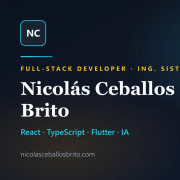
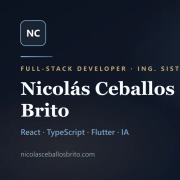
Refresh portfolio to Ink and Steel visual system.
Shift cyan/amber neon accents to muted steel and bronze for a more professional look, update OG assets, and keep CTA/hero styling on theme tokens.

diff --git a/src/styles/tokens.css b/src/styles/tokens.css
@@ -11,15 +11,17 @@
 
 @variant dark (&:where(.dark, .dark *));
 
+/* Ink & Steel — professional portfolio palette.
+   Token names kept for compatibility; values remapped to muted steel + bronze. */
 @theme {
   --color-navy-deep: #0F172A;
   --color-navy-mid: #0B1220;
-  --color-cyan: #06B6D4;
-  --color-cyan-bright: #22D3EE;
-  --color-cyan-glow: #67E8F9;
-  --color-amber: #F59E0B;
-  --color-amber-bright: #FBBF24;
-  --color-amber-glow: #FDE68A;
+  --color-cyan: #3D5A80;
+  --color-cyan-bright: #7BA3C9;
+  --color-cyan-glow: #A8C4DE;
+  --color-amber: #A67C52;
+  --color-amber-bright: #C4A574;
+  --color-amber-glow: #E2D0B0;
   --font-sans: 'Plus Jakarta Sans', sans-serif;
   --font-display: 'Fraunces', 'Fraunces Fallback', Georgia, 'Times New Roman', serif;
   --ease-smooth: cubic-bezier(0.22, 1, 0.36, 1);
@@ -32,106 +34,106 @@
 }
 
 :root {
-  --color-bg-primary: #F8FAFD;
-  --color-bg-secondary: #EEF4FB;
+  --color-bg-primary: #F4F6F8;
+  --color-bg-secondary: #E8EDF2;
   --color-bg-card: #FFFFFF;
   --color-bg-elevated: #FFFFFF;
-  --color-text-primary: #0A0F1A;
-  --color-text-secondary: #334155;
-  --color-text-placeholder: rgba(10, 15, 26, 0.5);
-  --color-text-on-hero: #0A0F1A;
-  --color-border-light: #CBD5E1;
+  --color-text-primary: #0B1220;
+  --color-text-secondary: #3F4B5A;
+  --color-text-placeholder: rgba(11, 18, 32, 0.45);
+  --color-text-on-hero: #0B1220;
+  --color-border-light: #D5DCE5;
   --color-nav-bg: rgba(255, 255, 255, 0.94);
-  --color-accent-primary: #0E7490;
-  --color-accent-cta: #EA580C;
-  --color-accent-label: #0E7490;
-  --color-accent-highlight: #0A0F1A;
-  --color-accent-icon: #0891B2;
-  --color-accent-badge-bg: rgba(8, 145, 178, 0.14);
-  --color-accent-badge-text: #0A5260;
+  --color-accent-primary: #2F4A6B;
+  --color-accent-cta: #9A7046;
+  --color-accent-label: #2F4A6B;
+  --color-accent-highlight: #0B1220;
+  --color-accent-icon: #3D5A80;
+  --color-accent-badge-bg: rgba(61, 90, 128, 0.12);
+  --color-accent-badge-text: #243B55;
   --color-btn-secondary-bg: #0F172A;
   --color-btn-secondary-text: #FFFFFF;
   --color-navy-deep: #0F172A;
-  --shadow-card: 0 8px 32px rgb(15 23 42 / 0.1);
-  --shadow-card-hover: 0 20px 48px rgb(6 182 212 / 0.22);
-  --shadow-cta: 0 8px 28px rgb(217 119 6 / 0.45);
-  --shadow-glow-cyan: 0 0 40px rgb(34 211 238 / 0.35);
-  --shadow-glow-amber: 0 0 36px rgb(251 191 36 / 0.4);
-  --shadow-nav: 0 12px 40px rgb(15 23 42 / 0.18);
-  --hero-text: #0A0F1A;
-  --hero-text-muted: rgba(10, 15, 26, 0.88);
-  --hero-subtitle: #0E7490;
-  --hero-eyebrow: #B45309;
-  --hero-stat-surface: rgba(255, 255, 255, 0.88);
-  --hero-stat-border: rgba(14, 116, 144, 0.22);
-  --hero-nav-surface: rgba(255, 255, 255, 0.9);
-  --hero-nav-border: rgba(14, 116, 144, 0.22);
+  --shadow-card: 0 8px 28px rgb(15 23 42 / 0.08);
+  --shadow-card-hover: 0 16px 40px rgb(47 74 107 / 0.14);
+  --shadow-cta: 0 8px 24px rgb(154 112 70 / 0.28);
+  --shadow-glow-cyan: 0 0 28px rgb(61 90 128 / 0.16);
+  --shadow-glow-amber: 0 0 24px rgb(154 112 70 / 0.22);
+  --shadow-nav: 0 10px 32px rgb(15 23 42 / 0.12);
+  --hero-text: #0B1220;
+  --hero-text-muted: rgba(11, 18, 32, 0.82);
+  --hero-subtitle: #2F4A6B;
+  --hero-eyebrow: #7A5A38;
+  --hero-stat-surface: rgba(255, 255, 255, 0.9);
+  --hero-stat-border: rgba(47, 74, 107, 0.18);
+  --hero-nav-surface: rgba(255, 255, 255, 0.92);
+  --hero-nav-border: rgba(47, 74, 107, 0.16);
   --gradient-hero: linear-gradient(
     155deg,
-    #F0F7FF 0%,
-    #E2F0FA 24%,
-    #C8E8F6 50%,
-    #7DD3EC 76%,
-    #22D3EE 100%
+    #F7F8FA 0%,
+    #EEF2F6 28%,
+    #E0E7EF 55%,
+    #C9D5E3 78%,
+    #A8B9CD 100%
   );
   --gradient-hero-scrim:
-    radial-gradient(ellipse 55% 45% at 85% 15%, rgb(245 158 11 / 0.14) 0%, transparent 55%),
-    radial-gradient(ellipse 60% 50% at 10% 85%, rgb(34 211 238 / 0.18) 0%, transparent 58%),
-    radial-gradient(ellipse 90% 70% at 50% 100%, rgb(255 255 255 / 0.55) 0%, transparent 70%);
-  --gradient-hero-grid: linear-gradient(rgb(14 116 144 / 0.09) 1px, transparent 1px),
-    linear-gradient(90deg, rgb(14 116 144 / 0.09) 1px, transparent 1px);
-  --gradient-text-accent: linear-gradient(135deg, #22D3EE 0%, #FBBF24 100%);
+    radial-gradient(ellipse 50% 40% at 88% 12%, rgb(154 112 70 / 0.08) 0%, transparent 55%),
+    radial-gradient(ellipse 55% 45% at 8% 88%, rgb(47 74 107 / 0.1) 0%, transparent 58%),
+    radial-gradient(ellipse 90% 70% at 50% 100%, rgb(255 255 255 / 0.5) 0%, transparent 70%);
+  --gradient-hero-grid: linear-gradient(rgb(47 74 107 / 0.06) 1px, transparent 1px),
+    linear-gradient(90deg, rgb(47 74 107 / 0.06) 1px, transparent 1px);
+  --gradient-text-accent: linear-gradient(135deg, #2F4A6B 0%, #9A7046 100%);
   --gradient-page: var(--color-bg-primary);
 }
 
 .dark {
-  --color-bg-primary: #030712;
-  --color-bg-secondary: #0B1220;
-  --color-bg-card: #111827;
-  --color-bg-elevated: #1A2332;
-  --color-text-primary: #F8FAFC;
-  --color-text-secondary: #CBD5E1;
-  --color-text-placeholder: rgba(248, 250, 252, 0.45);
+  --color-bg-primary: #070A0F;
+  --color-bg-secondary: #0E141C;
+  --color-bg-card: #141B24;
+  --color-bg-elevated: #1A2330;
+  --color-text-primary: #F1F4F8;
+  --color-text-secondary: #A8B3C2;
+  --color-text-placeholder: rgba(241, 244, 248, 0.42);
   --color-text-on-hero: #FFFFFF;
-  --hero-text: #FFFFFF;
-  --hero-text-muted: rgba(255, 255, 255, 0.95);
-  --hero-subtitle: #67E8F9;
-  --hero-eyebrow: #FBBF24;
-  --hero-stat-surface: rgba(3, 7, 18, 0.55);
-  --hero-stat-border: rgba(255, 255, 255, 0.22);
-  --hero-nav-surface: rgba(3, 7, 18, 0.78);
-  --hero-nav-border: rgba(255, 255, 255, 0.28);
-  --color-border-light: #1E293B;
-  --color-nav-bg: rgba(3, 7, 18, 0.92);
-  --color-accent-primary: #22D3EE;
-  --color-accent-cta: #FBBF24;
-  --color-accent-label: #67E8F9;
-  --color-accent-highlight: #FBBF24;
-  --color-accent-icon: #22D3EE;
-  --color-accent-badge-bg: rgba(34, 211, 238, 0.15);
-  --color-accent-badge-text: #67E8F9;
-  --color-btn-secondary-bg: #1E293B;
-  --color-btn-secondary-text: #F8FAFC;
-  --color-navy-deep: #030712;
-  --shadow-card: 0 8px 32px rgb(0 0 0 / 0.45);
-  --shadow-card-hover: 0 20px 48px rgb(34 211 238 / 0.18);
-  --shadow-cta: 0 8px 28px rgb(251 191 36 / 0.35);
-  --shadow-glow-cyan: 0 0 48px rgb(34 211 238 / 0.25);
-  --shadow-glow-amber: 0 0 40px rgb(251 191 36 / 0.3);
-  --shadow-nav: 0 12px 40px rgb(0 0 0 / 0.55);
+  --hero-text: #F7F9FC;
+  --hero-text-muted: rgba(247, 249, 252, 0.88);
+  --hero-subtitle: #A8C4DE;
+  --hero-eyebrow: #C4A574;
+  --hero-stat-surface: rgba(7, 10, 15, 0.62);
+  --hero-stat-border: rgba(255, 255, 255, 0.14);
+  --hero-nav-surface: rgba(7, 10, 15, 0.82);
+  --hero-nav-border: rgba(255, 255, 255, 0.18);
+  --color-border-light: #243041;
+  --color-nav-bg: rgba(7, 10, 15, 0.92);
+  --color-accent-primary: #7BA3C9;
+  --color-accent-cta: #C4A574;
+  --color-accent-label: #A8C4DE;
+  --color-accent-highlight: #C4A574;
+  --color-accent-icon: #7BA3C9;
+  --color-accent-badge-bg: rgba(123, 163, 201, 0.14);
+  --color-accent-badge-text: #A8C4DE;
+  --color-btn-secondary-bg: #1A2330;
+  --color-btn-secondary-text: #F1F4F8;
+  --color-navy-deep: #070A0F;
+  --shadow-card: 0 8px 28px rgb(0 0 0 / 0.4);
+  --shadow-card-hover: 0 16px 40px rgb(123 163 201 / 0.12);
+  --shadow-cta: 0 8px 24px rgb(196 165 116 / 0.22);
+  --shadow-glow-cyan: 0 0 32px rgb(123 163 201 / 0.14);
+  --shadow-glow-amber: 0 0 28px rgb(196 165 116 / 0.18);
+  --shadow-nav: 0 10px 32px rgb(0 0 0 / 0.5);
   --gradient-hero: linear-gradient(
     155deg,
-    #000000 0%,
-    #030712 22%,
-    #0B1220 48%,
-    #0C4A6E 75%,
-    #06B6D4 100%
+    #05070A 0%,
+    #070A0F 24%,
+    #0E141C 52%,
+    #1A2838 78%,
+    #2A3F55 100%
   );
   --gradient-hero-scrim:
-    radial-gradient(ellipse 55% 45% at 80% 12%, rgb(251 191 36 / 0.18) 0%, transparent 55%),
-    radial-gradient(ellipse 60% 50% at 15% 88%, rgb(34 211 238 / 0.22) 0%, transparent 58%),
-    radial-gradient(ellipse 90% 70% at 50% 100%, rgb(0 0 0 / 0.9) 0%, transparent 70%);
-  --gradient-hero-grid: linear-gradient(rgb(34 211 238 / 0.08) 1px, transparent 1px),
-    linear-gradient(90deg, rgb(34 211 238 / 0.08) 1px, transparent 1px);
+    radial-gradient(ellipse 50% 40% at 82% 10%, rgb(196 165 116 / 0.1) 0%, transparent 55%),
+    radial-gradient(ellipse 55% 45% at 12% 88%, rgb(123 163 201 / 0.12) 0%, transparent 58%),
+    radial-gradient(ellipse 90% 70% at 50% 100%, rgb(0 0 0 / 0.85) 0%, transparent 70%);
+  --gradient-hero-grid: linear-gradient(rgb(123 163 201 / 0.05) 1px, transparent 1px),
+    linear-gradient(90deg, rgb(123 163 201 / 0.05) 1px, transparent 1px);
   --gradient-page: var(--color-bg-primary);
 }

diff --git a/src/components/Hero.tsx b/src/components/Hero.tsx
@@ -1,4 +1,4 @@
-import { ArrowRight, ChevronDown, Sparkles } from 'lucide-react'
+import { ArrowRight, ChevronDown } from 'lucide-react'
 import { useRef } from 'react'
 import { PROFILE_IMAGE } from '../constants/lcp-image'
 import { graduation } from '../data/profile'
@@ -39,8 +39,8 @@ export default function Hero() {
       <div className="relative z-10 max-w-6xl mx-auto px-4 w-full hero-stagger">
         <div className="grid md:grid-cols-2 gap-12 lg:gap-16 items-center">
           <div className="text-left">
-            <p className="hero-entrance hero-entrance-delay-1 inline-flex items-center gap-2 text-xs uppercase tracking-[0.25em] font-bold text-[var(--hero-eyebrow)] mb-5 hero-eyebrow-glow">
-              <Sparkles size={14} className="text-[var(--color-accent-primary)]" />
+            <p className="hero-entrance hero-entrance-delay-1 inline-flex items-center gap-2 text-xs uppercase tracking-[0.22em] font-semibold text-[var(--hero-eyebrow)] mb-5 hero-eyebrow-glow">
+              <span className="h-px w-6 bg-[var(--color-accent-primary)]/70" aria-hidden />
               Full-Stack Developer · Ing. Sistemas
             </p>
 
@@ -70,7 +70,7 @@ export default function Hero() {
                 variant="primary"
                 href="#portafolio"
                 trailingIcon={<ArrowRight size={14} />}
-                className="!bg-[var(--color-amber-bright)] !text-[#0A0F1A] !font-bold !shadow-[var(--shadow-cta)] hover:!brightness-110 hover:!shadow-[var(--shadow-glow-amber)]"
+                className="!bg-[var(--color-accent-cta)] !text-[var(--color-navy-deep)] !font-semibold !shadow-[var(--shadow-cta)] hover:!brightness-105 hover:!shadow-[var(--shadow-glow-amber)]"
               >
                 Ver proyectos
               </Button>
@@ -79,8 +79,8 @@ export default function Hero() {
                 to="/about"
                 className={
                   isDarkHero
-                    ? '!text-white !border-white/60 !bg-white/10 hover:!bg-white/20 hover:!border-[var(--color-cyan-bright)] backdrop-blur-sm'
-                    : '!text-[var(--hero-text)] !border-[var(--color-accent-primary)]/35 !bg-white/70 hover:!bg-white/90 hover:!border-[var(--color-accent-primary)] backdrop-blur-sm'
+                    ? '!text-white !border-white/45 !bg-white/8 hover:!bg-white/14 hover:!border-[var(--color-cyan-bright)] backdrop-blur-sm'
+                    : '!text-[var(--hero-text)] !border-[var(--color-accent-primary)]/30 !bg-white/75 hover:!bg-white/95 hover:!border-[var(--color-accent-primary)] backdrop-blur-sm'
                 }
               >
                 Sobre mí

diff --git a/src/hooks/useHeroDecorSettle.ts b/src/hooks/useHeroDecorSettle.ts
@@ -28,7 +28,6 @@ export function useHeroDecorSettle(heroRef: RefObject<HTMLElement | null>): void
     let inViewport = true
     let idleId: number | undefined
     let timeoutId: ReturnType<typeof setTimeout> | undefined
-    let observer: IntersectionObserver | undefined
 
     const syncClass = () => {
       if (settled && inViewport) {
@@ -66,7 +65,7 @@ export function useHeroDecorSettle(heroRef: RefObject<HTMLElement | null>): void
       window.addEventListener('load', onLoad, { once: true })
     }
 
-    observer = new IntersectionObserver(
+    const observer = new IntersectionObserver(
       ([entry]) => {
         inViewport = entry?.isIntersecting ?? false
         syncClass()
@@ -83,7 +82,7 @@ export function useHeroDecorSettle(heroRef: RefObject<HTMLElement | null>): void
       if (timeoutId != null) {
         globalThis.clearTimeout(timeoutId)
       }
-      observer?.disconnect()
+      observer.disconnect()
       element.classList.remove(DECOR_CLASS)
     }
   }, [heroRef])

diff --git a/src/styles/base.css b/src/styles/base.css
@@ -133,7 +133,7 @@ textarea::placeholder {
 }
 
 .hero-eyebrow-glow {
-  text-shadow: 0 0 20px rgb(251 191 36 / 0.5);
+  text-shadow: 0 0 16px rgb(154 112 70 / 0.28);
 }
 
 .hero-profile-ring {
@@ -142,14 +142,14 @@ textarea::placeholder {
   border-radius: 18px;
   background: conic-gradient(
     from 0deg,
-    #22D3EE,
-    #FBBF24,
-    #22D3EE,
-    #06B6D4,
-    #F59E0B,
-    #22D3EE
+    #3D5A80,
+    #C4A574,
+    #2F4A6B,
+    #7BA3C9,
+    #9A7046,
+    #3D5A80
   );
-  opacity: 0.9;
+  opacity: 0.72;
 }
 
 .hero-decor-active .hero-profile-ring {

diff --git a/src/components/Navbar.tsx b/src/components/Navbar.tsx
@@ -31,7 +31,7 @@ export default function Navbar() {
   const textCol = onHero ? 'var(--hero-text)' : 'var(--color-text-primary)'
   const logoVariant = onHero && isDarkHero ? 'onDark' : 'default'
   const heroCtaClasses =
-    '!px-4 !py-1.5 !text-xs !font-bold !bg-[var(--color-amber-bright)] !text-[#0A0F1A] !shadow-[var(--shadow-cta)] hover:!brightness-110'
+    '!px-4 !py-1.5 !text-xs !font-semibold !bg-[var(--color-accent-cta)] !text-[var(--color-navy-deep)] !shadow-[var(--shadow-cta)] hover:!brightness-105'
 
   return (
     <>

diff --git a/src/styles/critical-inline.css b/src/styles/critical-inline.css
@@ -37,7 +37,7 @@
 }
 
 .text-gradient-accent {
-  background: linear-gradient(135deg, var(--color-cyan-bright, #22d3ee), var(--color-amber-bright, #fbbf24));
+  background: linear-gradient(135deg, var(--color-cyan-bright, #7ba3c9), var(--color-amber-bright, #c4a574));
   -webkit-background-clip: text;
   background-clip: text;
   color: transparent;

diff --git a/DESIGN_SYSTEM.md b/DESIGN_SYSTEM.md
@@ -11,11 +11,11 @@
 | Atributo | Valor |
 |---|---|
 | **Nombre** | Nicolás Ceballos Brito |
-| **Identidad** | Dev Premium — navy profundo + acentos eléctricos |
-| **Tono** | Técnico, editorial, confiable, moderno |
+| **Identidad** | Dev Premium — Ink & Steel (graphite + steel + bronze) |
+| **Tono** | Técnico, editorial, serio, confiable |
 | **Audiencia** | Reclutadores, clientes, colaboradores tech |
 | **Dominio producción** | `https://nicolasceballosbrito.com` |
-| **Paleta maestra** | Navy (`#0B1220`) + Cyan (`#22D3EE`) + Ámbar CTA (`#F59E0B`) |
+| **Paleta maestra** | Ink (`#070A0F`) + Steel (`#3D5A80` / `#7BA3C9`) + Bronze CTA (`#9A7046` / `#C4A574`) |
 
 ---
 
@@ -25,26 +25,26 @@
 
 | Token | Valor | Uso |
 |---|---|---|
-| `--color-navy-deep` | `#1E293B` | Footer, texto sobre CTA |
-| `--color-navy-mid` | `#0F172A` | Fondos oscuros profundos |
-| `--color-cyan` | `#0891B2` | Acento claro (modo light) |
-| `--color-cyan-bright` | `#22D3EE` | Acento oscuro (modo dark) |
-| `--color-amber` | `#F59E0B` | CTA primario (light) |
-| `--color-amber-bright` | `#FBBF24` | CTA primario (dark) |
+| `--color-navy-deep` | `#0F172A` | Footer, texto sobre CTA |
+| `--color-navy-mid` | `#0B1220` | Fondos oscuros profundos |
+| `--color-cyan` | `#3D5A80` | Steel acento (light) — nombre legacy |
+| `--color-cyan-bright` | `#7BA3C9` | Steel acento (dark) — nombre legacy |
+| `--color-amber` | `#A67C52` | Bronze CTA (light) — nombre legacy |
+| `--color-amber-bright` | `#C4A574` | Bronze CTA (dark) — nombre legacy |
 
 ### 2.2 Variables de tema (cambian con `.dark`)
 
 | Token | Light (`:root`) | Dark (`.dark`) | Uso |
 |---|---|---|---|
-| `--color-bg-primary` | `#F7F9FC` | `#0B1220` | Fondo de página |
-| `--color-bg-secondary` | `#E8EEF7` | `#111827` | Secciones alternas |
-| `--color-bg-card` | `#FFFFFF` | `#1A2332` | Superficies de tarjeta |
-| `--color-text-primary` | `#0F172A` | `#F1F5F9` | Texto principal |
-| `--color-text-secondary` | `#475569` | `#94A3B8` | Texto secundario |
-| `--color-accent-primary` | `#0891B2` | `#22D3EE` | Links, iconos, highlights |
-| `--color-accent-cta` | `#F59E0B` | `#FBBF24` | Botones primarios |
-| `--color-border-light` | `#E2E8F0` | `#1E293B` | Bordes, inputs |
-| `--color-nav-bg` | `rgba(255,255,255,0.85)` | `rgba(11,18,32,0.9)` | Navbar / dock |
+| `--color-bg-primary` | `#F4F6F8` | `#070A0F` | Fondo de página |
+| `--color-bg-secondary` | `#E8EDF2` | `#0E141C` | Secciones alternas |
+| `--color-bg-card` | `#FFFFFF` | `#141B24` | Superficies de tarjeta |
+| `--color-text-primary` | `#0B1220` | `#F1F4F8` | Texto principal |
+| `--color-text-secondary` | `#3F4B5A` | `#A8B3C2` | Texto secundario |
+| `--color-accent-primary` | `#2F4A6B` | `#7BA3C9` | Links, iconos, highlights |
+| `--color-accent-cta` | `#9A7046` | `#C4A574` | Botones primarios |
+| `--color-border-light` | `#D5DCE5` | `#243041` | Bordes, inputs |
+| `--color-nav-bg` | `rgba(255,255,255,0.94)` | `rgba(7,10,15,0.92)` | Navbar / dock |
 
 ### 2.3 Sombras y gradientes
 
